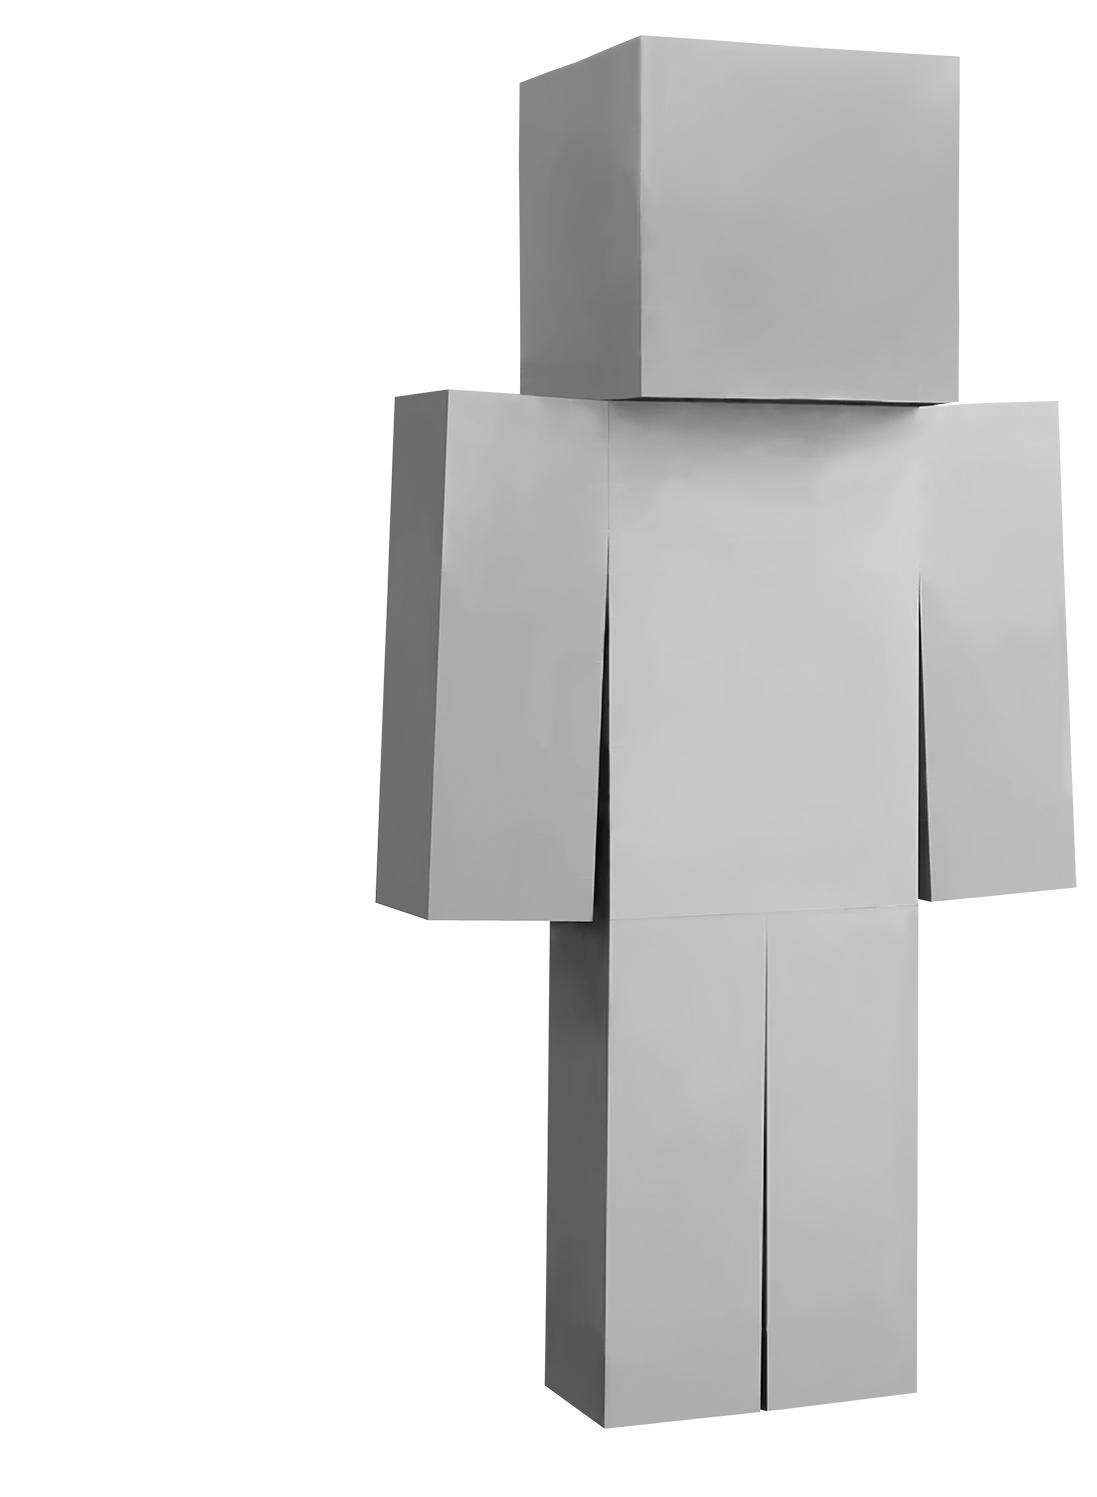
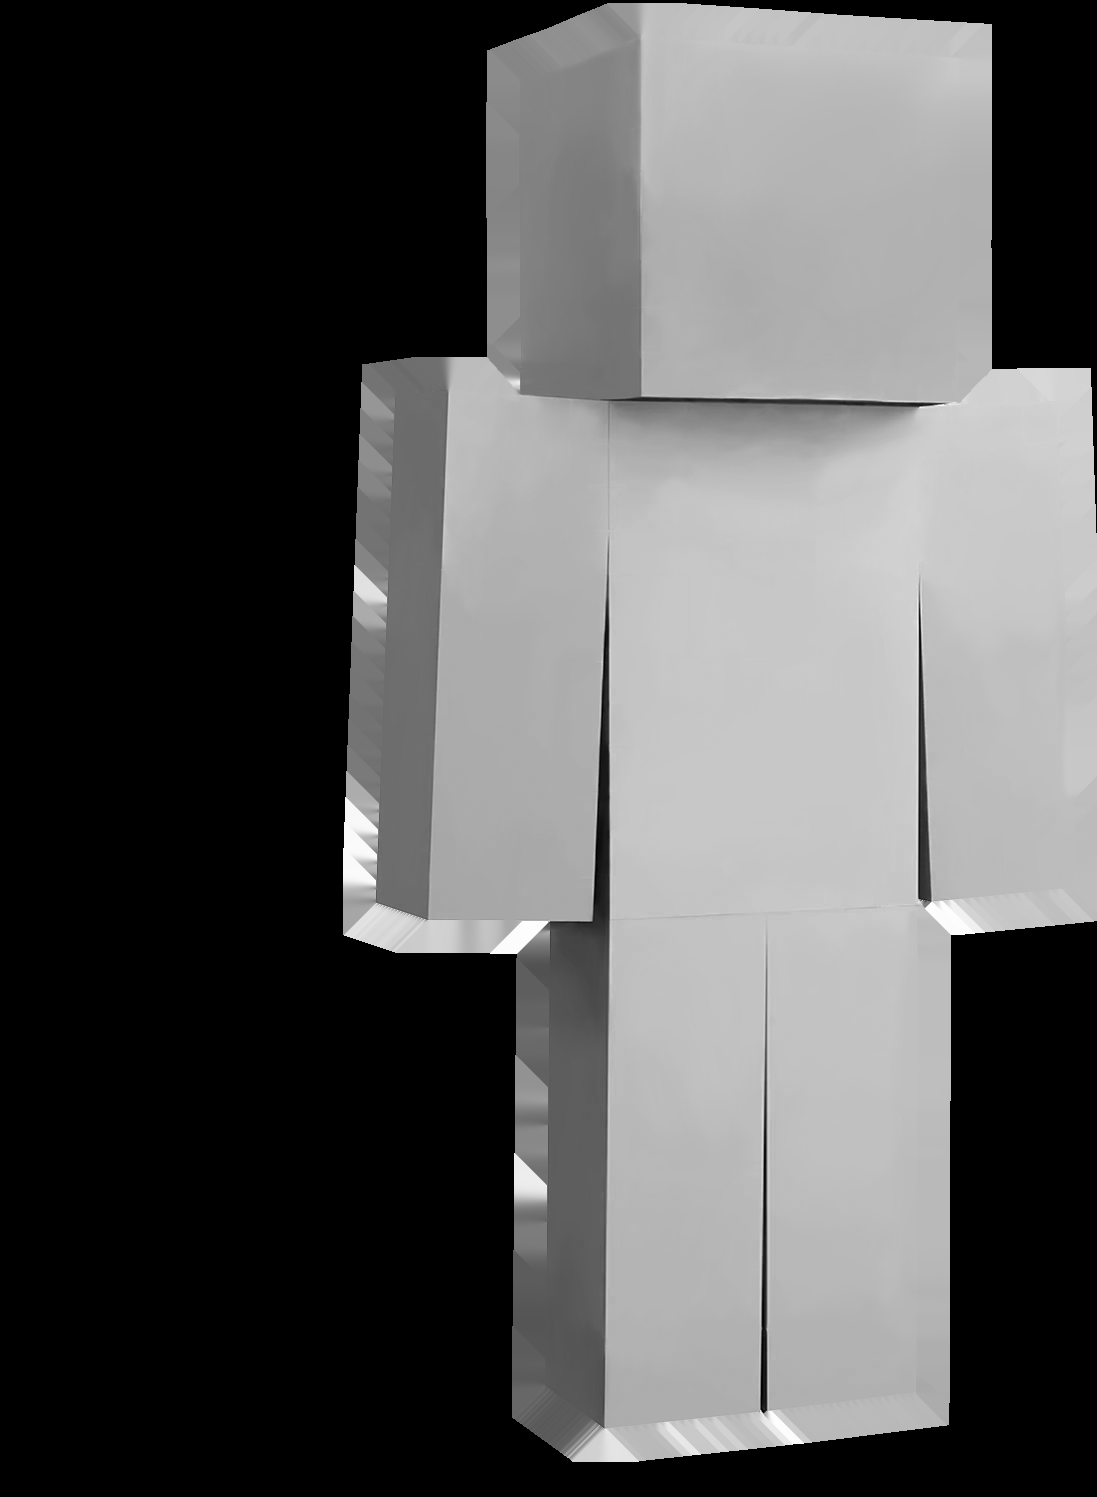
use antialiased edges for render, add wip 2nd layer support

diff --git a/src/lib.rs b/src/lib.rs
@@ -4,7 +4,7 @@ use image::Rgba;
 use image::RgbaImage;
 use imageproc::geometric_transformations::warp_into_with;
 use imageproc::geometric_transformations::Interpolation;
-use std::cmp::min;
+use std::cmp::{max, min};
 
 /// Creates a Smash Ultimate Minecraft Steve inspired render from the given Minecraft skin texture.
 pub fn create_render(minecraft_skin_texture: &RgbaImage) -> RgbaImage {
@@ -17,8 +17,12 @@ pub fn create_render(minecraft_skin_texture: &RgbaImage) -> RgbaImage {
         DynamicImage::ImageRgba16(buffer) => buffer,
         _ => panic!("Expected RGBA 16 bit for UVs"),
     };
+    let uvs_layer2 = match image::load_from_memory(include_bytes!("../uvs2.png")).unwrap() {
+        DynamicImage::ImageRgba16(buffer) => buffer,
+        _ => panic!("Expected RGBA 16 bit for UVs"),
+    };
 
-    sample_texture_apply_lighting(&minecraft_skin_texture, &uvs, &lighting)
+    sample_texture_apply_lighting(&minecraft_skin_texture, &uvs, &uvs_layer2, &lighting)
 }
 
 /// Creates a render with the dimensions and alpha of the reference chara file
@@ -65,13 +69,15 @@ fn copy_alpha(target: &mut RgbaImage, source: &RgbaImage) {
 fn sample_texture_apply_lighting(
     texture: &RgbaImage,
     uvs: &ImageBuffer<Rgba<u16>, Vec<u16>>,
+    uvs_layer2: &ImageBuffer<Rgba<u16>, Vec<u16>>,
     lighting: &RgbaImage,
 ) -> RgbaImage {
     let mut output = ImageBuffer::new(uvs.dimensions().0, uvs.dimensions().1);
 
     for x in 0..output.width() {
         for y in 0..output.height() {
-            *output.get_pixel_mut(x, y) = calculate_render_pixel(x, y, uvs, lighting, texture);
+            *output.get_pixel_mut(x, y) =
+                calculate_render_pixel(x, y, uvs, uvs_layer2, lighting, texture);
         }
     }
 
@@ -82,31 +88,46 @@ fn calculate_render_pixel(
     x: u32,
     y: u32,
     uvs: &ImageBuffer<Rgba<u16>, Vec<u16>>,
+    uvs_layer2: &ImageBuffer<Rgba<u16>, Vec<u16>>,
     lighting: &RgbaImage,
     texture: &RgbaImage,
 ) -> Rgba<u8> {
-    let uv = uvs.get_pixel(x, y);
-    let (u, v, _) = normalize_rgb_u16(uv);
-    let alpha = uv[3];
+    // Get texture coordinates for both uv layers.
+    let (u1, v1, _, alpha1) = normalize_rgba_u16(uvs.get_pixel(x, y));
+    let (u2, v2, _, alpha2) = normalize_rgba_u16(uvs_layer2.get_pixel(x, y));
 
     // Flip v to transform from an origin at the bottom left (OpenGL) to top left (image).
     let (tex_width, tex_height) = texture.dimensions();
-    let (texture_x, texture_y) = interpolate_nearest(u, 1f32 - v, tex_width, tex_height);
+    let (texture_x1, texture_y1) = interpolate_nearest(u1, 1f32 - v1, tex_width, tex_height);
+    let (texture_x2, texture_y2) = interpolate_nearest(u2, 1f32 - v2, tex_width, tex_height);
 
     // Perform all calculations in floating point to avoid overflow.
-    let (tex_r, tex_g, tex_b) = normalize_rgb_u8(texture.get_pixel(texture_x, texture_y));
-    let (light_r, light_g, light_b) = normalize_rgb_u8(lighting.get_pixel(x, y));
+    let (tex_r1, tex_g1, tex_b1, tex_a1) =
+        normalize_rgba_u8(texture.get_pixel(texture_x1, texture_y1));
+    let (tex_r2, tex_g2, tex_b2, tex_a2) =
+        normalize_rgba_u8(texture.get_pixel(texture_x2, texture_y2));
+
+    let (light_r1, light_g1, light_b1, _) = normalize_rgba_u8(lighting.get_pixel(x, y));
 
     // The lighting pass is scaled down by a factor of 0.25 to fit into 8 bits per channel.
     // Multiplying by 4 is a bit too bright, so use 2 instead.
     let apply_lighting = |color: f32, light: f32| color * light * 2f32;
-    let get_result = |color, light| to_u8_clamped(apply_lighting(color, light));
+    let alpha_blend = |val1: f32, val2: f32, alpha: f32| val1 * (1f32 - alpha) + val2 * alpha;
+
+    // TODO: Alpha blend second layer.
+    let get_result = |color1, color2, light, alpha| apply_lighting(color1, light);
+
+    let r_final = get_result(tex_r1, tex_r2, light_r1, tex_a2);
+    let g_final = get_result(tex_g1, tex_g2, light_g1, tex_a2);
+    let b_final = get_result(tex_b1, tex_b2, light_b1, tex_a2);
+    // TODO: Combine alpha from both layers.
+    let a_final = alpha1;
 
     Rgba([
-        get_result(tex_r, light_r),
-        get_result(tex_g, light_g),
-        get_result(tex_b, light_b),
-        alpha as u8,
+        to_u8_clamped(r_final),
+        to_u8_clamped(g_final),
+        to_u8_clamped(b_final),
+        to_u8_clamped(a_final),
     ])
 }
 
@@ -118,23 +139,25 @@ fn interpolate_nearest(x: f32, y: f32, width: u32, height: u32) -> (u32, u32) {
     (nearest(x, width), nearest(y, height))
 }
 
-fn normalize_rgb_u8(pixel: &Rgba<u8>) -> (f32, f32, f32) {
+fn normalize_rgba_u8(pixel: &Rgba<u8>) -> (f32, f32, f32, f32) {
     // 0u16 -> 0.0f32, 65535u16 -> 1.0f32
     let normalize = |u| u as f32 / 255f32;
     (
         normalize(pixel[0]),
         normalize(pixel[1]),
         normalize(pixel[2]),
+        normalize(pixel[3]),
     )
 }
 
-fn normalize_rgb_u16(pixel: &Rgba<u16>) -> (f32, f32, f32) {
+fn normalize_rgba_u16(pixel: &Rgba<u16>) -> (f32, f32, f32, f32) {
     // 0u16 -> 0.0f32, 65535u16 -> 1.0f32
     let normalize = |u| u as f32 / 65535f32;
     (
         normalize(pixel[0]),
         normalize(pixel[1]),
         normalize(pixel[2]),
+        normalize(pixel[3]),
     )
 }
 
@@ -161,7 +184,6 @@ mod tests {
 
     #[test]
     fn test_interpolate_nearest_out_of_bounds() {
-        assert_eq!(interpolate_nearest(-1f32, -1f32, 8u32, 8u32), (0u32, 0u32));
         assert_eq!(interpolate_nearest(0f32, 1.5f32, 8u32, 8u32), (0u32, 7u32));
         assert_eq!(interpolate_nearest(1.5f32, 0f32, 8u32, 8u32), (7u32, 0u32));
         assert_eq!(
@@ -173,24 +195,24 @@ mod tests {
     #[test]
     fn test_normalize_u8() {
         assert_eq!(
-            normalize_rgb_u8(&Rgba([0u8, 0u8, 0u8, 0u8])),
-            (0f32, 0f32, 0f32)
+            normalize_rgba_u8(&Rgba([0u8, 0u8, 0u8, 0u8])),
+            (0f32, 0f32, 0f32, 0f32)
         );
         assert_eq!(
-            normalize_rgb_u8(&Rgba([255u8, 255u8, 255u8, 255u8])),
-            (1f32, 1f32, 1f32)
+            normalize_rgba_u8(&Rgba([255u8, 255u8, 255u8, 255u8])),
+            (1f32, 1f32, 1f32, 1f32)
         );
     }
 
     #[test]
     fn test_normalize_u16() {
         assert_eq!(
-            normalize_rgb_u16(&Rgba([0u16, 0u16, 0u16, 0u16])),
-            (0f32, 0f32, 0f32)
+            normalize_rgba_u16(&Rgba([0u16, 0u16, 0u16, 0u16])),
+            (0f32, 0f32, 0f32, 0f32)
         );
         assert_eq!(
-            normalize_rgb_u16(&Rgba([65535u16, 65535u16, 65535u16, 65535u16])),
-            (1f32, 1f32, 1f32)
+            normalize_rgba_u16(&Rgba([65535u16, 65535u16, 65535u16, 65535u16])),
+            (1f32, 1f32, 1f32, 1f32)
         );
     }
 
